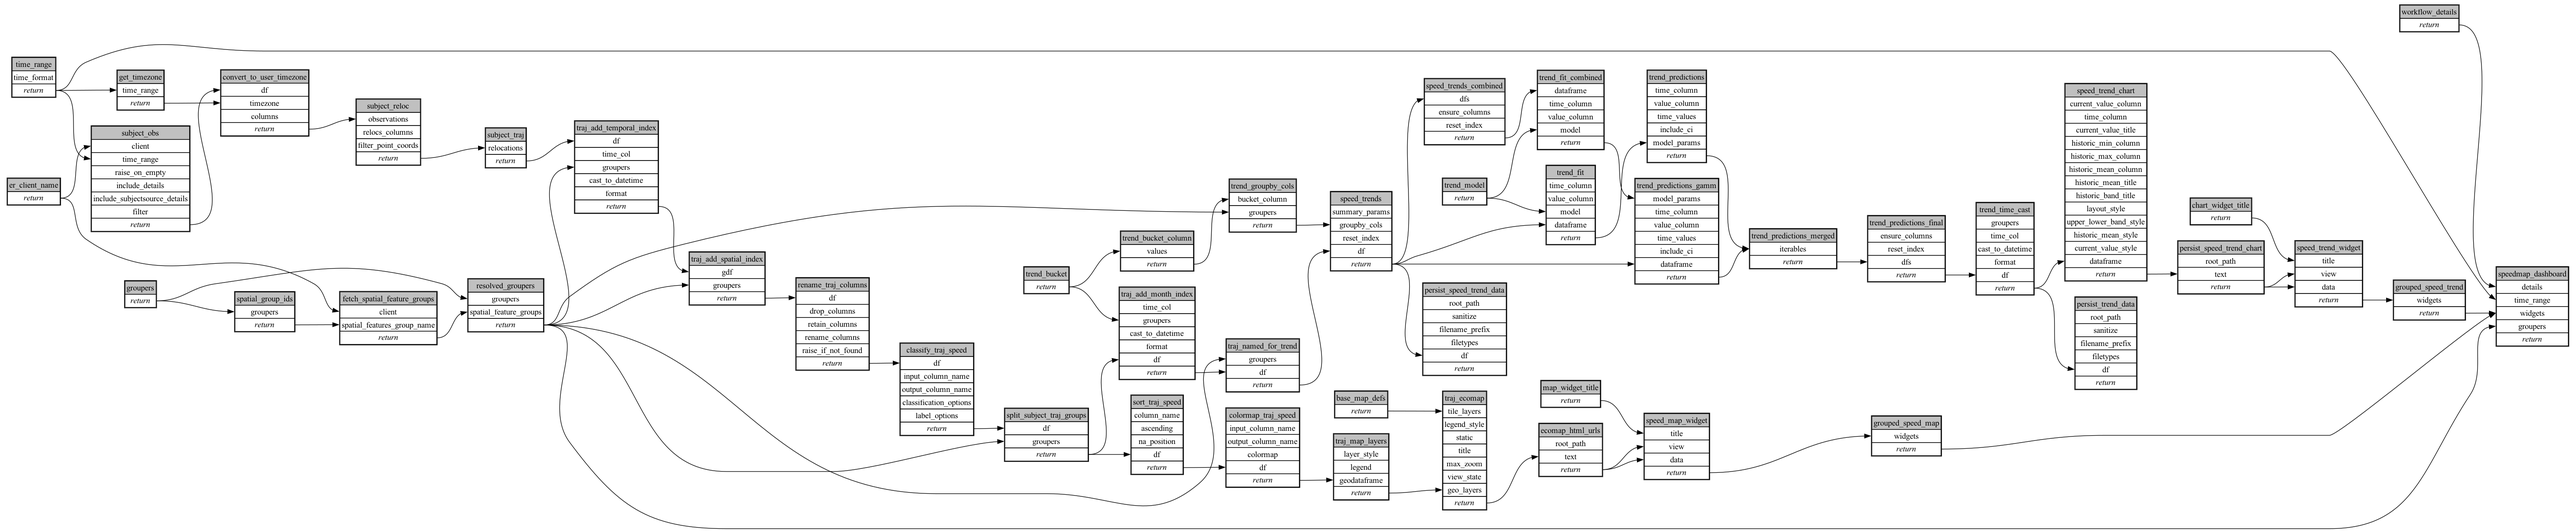
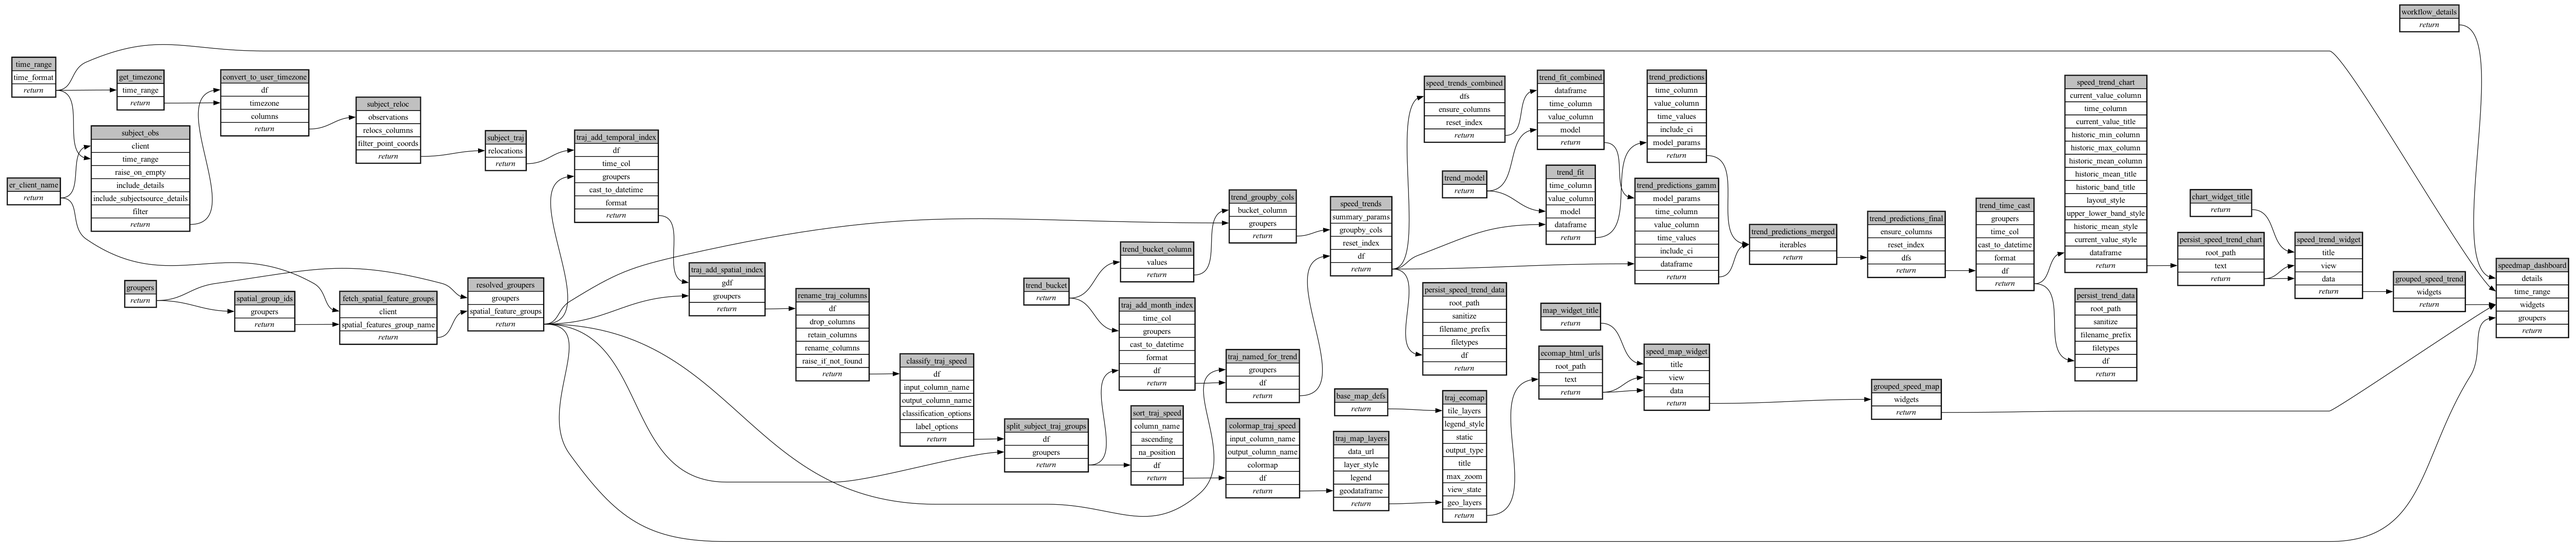
Fix Data Url/Output Type field exposures and recompile
create_path_layer/draw_map's data_url and output_type parameters were
left out of their partial values, exposing them as editable "Data Url"/
"Output Type" form fields even though this workflow always uses a
geodataframe (never a data_url) and always renders HTML - matching
wt-hansen-deforestation's existing convention of fixing both. Also
points param.yaml's example EarthRanger connection at a real one ("mep")
verified working end-to-end against live data.

diff --git a/ecoscope-workflows-speedmap-workflow/ecoscope_workflows_speedmap_workflow/dags/run_sequential.py b/ecoscope-workflows-speedmap-workflow/ecoscope_workflows_speedmap_workflow/dags/run_sequential.py
@@ -535,6 +535,7 @@ def main(params: dict[str, Any], validate_params_schema: bool = True):
             unpack_depth=1,
         )
         .partial(
+            data_url=None,
             layer_style={"get_color": "speed_bins_colormap"},
             legend={
                 "title": "Speed",
@@ -563,6 +564,7 @@ def main(params: dict[str, Any], validate_params_schema: bool = True):
             tile_layers=base_map_defs,
             legend_style={"placement": "bottom-right"},
             static=False,
+            output_type="html",
             title=None,
             max_zoom=20,
             view_state=None,

diff --git a/ecoscope-workflows-speedmap-workflow/ecoscope_workflows_speedmap_workflow/dags/run_sequential_mock_io.py b/ecoscope-workflows-speedmap-workflow/ecoscope_workflows_speedmap_workflow/dags/run_sequential_mock_io.py
@@ -550,6 +550,7 @@ def main(params: dict[str, Any], validate_params_schema: bool = True):
             unpack_depth=1,
         )
         .partial(
+            data_url=None,
             layer_style={"get_color": "speed_bins_colormap"},
             legend={
                 "title": "Speed",
@@ -578,6 +579,7 @@ def main(params: dict[str, Any], validate_params_schema: bool = True):
             tile_layers=base_map_defs,
             legend_style={"placement": "bottom-right"},
             static=False,
+            output_type="html",
             title=None,
             max_zoom=20,
             view_state=None,

diff --git a/ecoscope-workflows-speedmap-workflow/README.md b/ecoscope-workflows-speedmap-workflow/README.md
@@ -5,8 +5,8 @@
 
 ```yaml
 # fingerprint:
-artifacts_sha256_basic: e608cf8775a342073f4e4c0a995ac9b8421ddb9b699160e0096570b373871c1b
-artifacts_sha256_strict: dc9e3e214dba3166090e221484052eef3a3ff87d43ecaff04f3abf66b92d19a7
+artifacts_sha256_basic: 3192902cae51104629cd7ba6cccd5b2c8a037061c182f3f23dac7bc0a09b4059
+artifacts_sha256_strict: 9ca554749d0c2477091b2fae42fb0415e4eda5399b6062d0f1e776e0e6bcda25
 installed_requirements:
 - channel: https://repo.prefix.dev/ecoscope-workflows/
   name: ecoscope-platform
@@ -14,8 +14,8 @@ installed_requirements:
 - channel: conda-forge
   name: pydeck
   version: {version: ==0.9.2}
-params_sha256: 76095cbaf07db7ffe20a1add688fd0440470b78a787252178b678097b7a7d37a
-spec_sha256: 05e2e50f8943fda6b0274c7db8d7fcf20c70ddc7f984052b15b888661ba4be79
+params_sha256: bada4236600cdd9a591ee3210e97e844ad72a9b04773c7bf318e1379fc2af615
+spec_sha256: f1afb7370ce32603af2747d484c823e8ea342dfaff06a1340d4c445fec69652d
 
 ```
 
